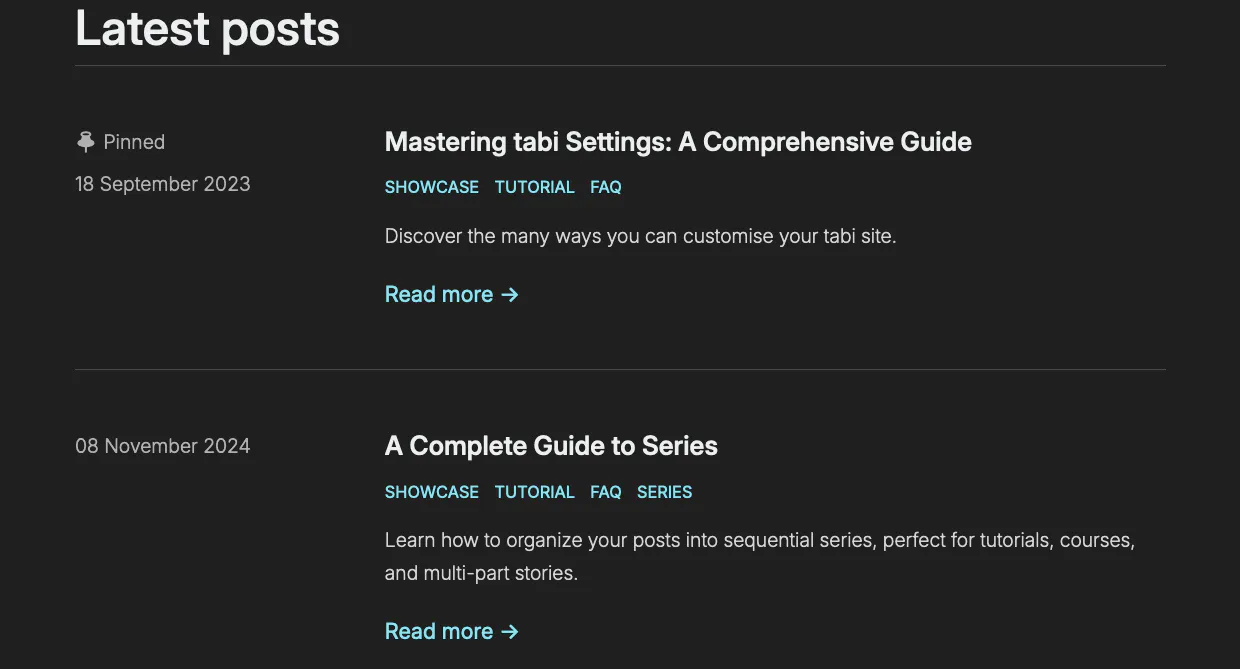
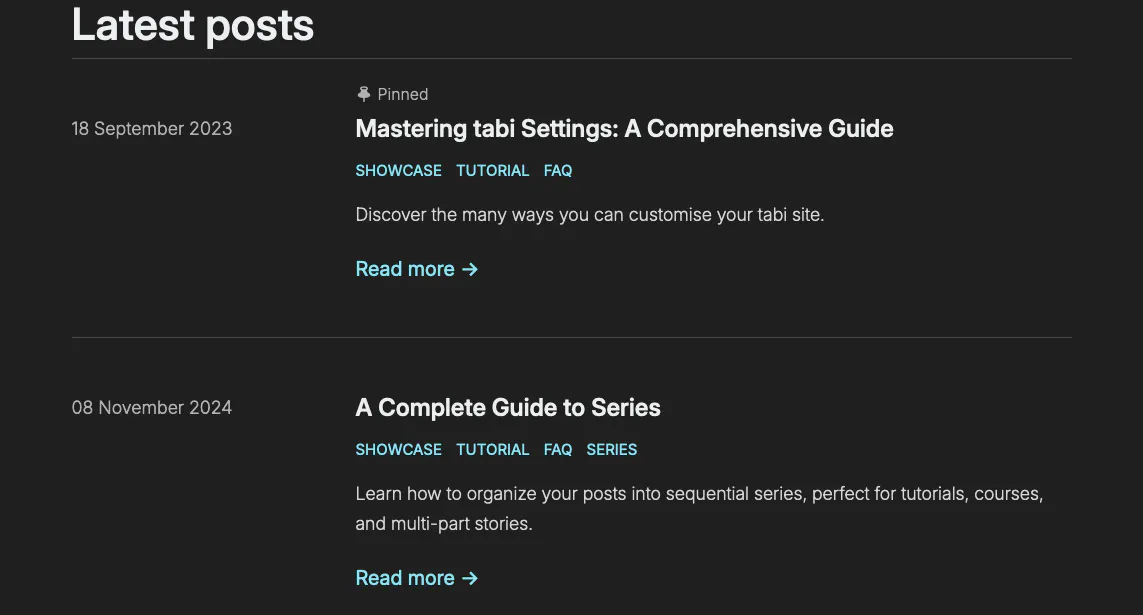
redesign pin and enable pinning only in section.html

diff --git a/templates/macros/list_posts.html b/templates/macros/list_posts.html
@@ -3,24 +3,29 @@
 {# It would also work with arrays (e.g. ["dates"] or ["indexes"] or even ["indexes","dates"]). #}
 {# Nevertheless, arrays cannot be used as a default value for a macro parameter in Tera (see https://github.com/Keats/tera/issues/710). #}
 {# `paginator` is only used to compute indexes metadata and can be let empty otherwise. #}
-{% macro list_posts(posts, max, metadata="dates", language_strings="", section_path="blog", paginator="") %}
+{% macro list_posts(posts, max, metadata="dates", language_strings="", section_path="blog", paginator="", pinned_first=false) %}
 
 {%- set separator = config.extra.separator | default(value="•") -%}
 
 {# Separate pinned and regular posts #}
-{% set pinned_posts = [] %}
-{% set regular_posts = [] %}
-{% for post in posts %}
-    {% if post.extra.pinned %}
-        {% set_global pinned_posts = pinned_posts | concat(with=post) %}
-    {% else %}
-        {% set_global regular_posts = regular_posts | concat(with=post) %}
-    {% endif %}
-{% endfor %}
+{% set all_posts = [] %}
+{% if pinned_first %}
+    {% set pinned_posts = [] %}
+    {% set regular_posts = [] %}
+    {% for post in posts %}
+        {% if post.extra.pinned %}
+            {% set_global pinned_posts = pinned_posts | concat(with=post) %}
+        {% else %}
+            {% set_global regular_posts = regular_posts | concat(with=post) %}
+        {% endif %}
+    {% endfor %}
+    {% set all_posts = pinned_posts | concat(with=regular_posts) %}
+{% else %}
+    {% set all_posts = posts %}
+{% endif %}
 
 <div class="bloglist-container">
     {# Display all posts (pinned first, then regular) #}
-    {% set all_posts = pinned_posts | concat(with=regular_posts) %}
     {% for post in all_posts %}
         {% if loop.index <= max %}
             {% if loop.index == max or loop.last %}
@@ -59,16 +64,6 @@
                         {%- set show_date = post.date and post_listing_date == "date" or post.date and post_listing_date == "both" or post.date and post_listing_date == "updated" and not post.updated -%}
                         {%- set show_updated = post.updated and post_listing_date == "updated" or post.updated and post_listing_date == "both" -%}
 
-                        {% if post.extra.pinned %}
-                            <li class="pinned-label">
-                                <svg aria-hidden="true" xmlns="http://www.w3.org/2000/svg" viewBox="0 0 16 16"><path fill="currentColor" fill-rule="evenodd" d="M10.5 2.255v-.01c.003-.03.013-.157-.361-.35C9.703 1.668 8.967 1.5 8 1.5s-1.703.169-2.138.394c-.375.194-.365.32-.362.351v.01c-.003.03-.013.157.362.35C6.297 2.832 7.033 3 8 3s1.703-.169 2.139-.394c.374-.194.364-.32.361-.351M12 2.25c0 .738-.433 1.294-1.136 1.669l.825 2.31c1.553.48 2.561 1.32 2.561 2.52c0 1.854-2.402 2.848-5.5 2.985V15a.75.75 0 0 1-1.5 0v-3.266c-3.098-.136-5.5-1.131-5.5-2.984c0-1.2 1.008-2.04 2.561-2.52l.825-2.311C4.433 3.544 4 2.988 4 2.25C4 .75 5.79 0 8 0s4 .75 4 2.25" clip-rule="evenodd"/></svg>
-                                <span>{{ macros_translate::translate(key="pinned", default="Pinned", language_strings=language_strings) }}</span>
-                            </li>
-                            {%- if show_date -%}
-                                <li class="mobile-only">{{- separator -}}</li>
-                            {%- endif -%}
-                        {% endif %}
-
                         {%- if show_date or show_updated -%}
                             {%- if show_date -%}
                                 <li class="date">{{- macros_format_date::format_date(date=post.date, short=false, language_strings=language_strings) -}}</li>
@@ -93,6 +88,13 @@
 
             <section class="bloglist-content {% if bottom_divider -%}bottom-divider{%- endif -%}">
                 <div>
+                    {% if pinned_first and post.extra.pinned %}
+                    <div class="pinned-label">
+                        <svg aria-hidden="true" xmlns="http://www.w3.org/2000/svg" viewBox="0 0 16 16"><path fill="currentColor" fill-rule="evenodd" d="M10.5 2.255v-.01c.003-.03.013-.157-.361-.35C9.703 1.668 8.967 1.5 8 1.5s-1.703.169-2.138.394c-.375.194-.365.32-.362.351v.01c-.003.03-.013.157.362.35C6.297 2.832 7.033 3 8 3s1.703-.169 2.139-.394c.374-.194.364-.32.361-.351M12 2.25c0 .738-.433 1.294-1.136 1.669l.825 2.31c1.553.48 2.561 1.32 2.561 2.52c0 1.854-2.402 2.848-5.5 2.985V15a.75.75 0 0 1-1.5 0v-3.266c-3.098-.136-5.5-1.131-5.5-2.984c0-1.2 1.008-2.04 2.561-2.52l.825-2.311C4.433 3.544 4 2.988 4 2.25C4 .75 5.79 0 8 0s4 .75 4 2.25" clip-rule="evenodd"/></svg>
+                        <span>{{ macros_translate::translate(key="pinned", default="Pinned", language_strings=language_strings) }}</span>
+                    </div>
+                    {% endif %}
+
                     <h2 class="bloglist-title">
                         <a href="{{ post.permalink }}">{{ post.title }}</a>
                     </h2>

diff --git a/sass/parts/_posts_list.scss b/sass/parts/_posts_list.scss
@@ -3,22 +3,14 @@
     grid-template-columns: 1fr 8fr;
 }
 
-.pinned-label {
-    display: flex;
-    align-items: center;
-    gap: 0.3rem;
-}
 
-.pinned-label svg {
-    width: 1rem;
-    height: 1rem;
-}
+$padding: 2.5rem;
 
 .bloglist-meta {
     display: flex;
     align-items: flex-start;
     background-color: var(--navbar-color);
-    padding-block: 2.5rem;
+    padding-block: $padding;
 
     ul {
         margin-inline-end: 0.7rem;
@@ -45,9 +37,26 @@
 
 .bloglist-content {
     display: flex;
+    position: relative;
     align-items: flex-start;
     background-color: var(--navbar-color);
-    padding: 2.5rem 0;
+    padding: $padding 0;
+
+    .pinned-label {
+        display: flex;
+        position: absolute;
+        top: 0.8rem;
+        align-items: center;
+        gap: 0.3rem;
+        color: var(--meta-color);
+        font-weight: 300;
+        font-size: 0.8rem;
+    }
+
+    .pinned-label svg {
+        width: 0.8rem;
+        height: 0.8rem;
+    }
 
     div {
         flex: 1;
@@ -135,6 +144,13 @@
         align-items: flex-start;
         padding: 0;
         padding-bottom: 2rem;
+
+
+        .pinned-label {
+            position: static;
+            margin: 0;
+            margin-top: -1.9rem;
+        }
 
         div {
             width: 100%;

diff --git a/templates/partials/main_page_posts_list.html b/templates/partials/main_page_posts_list.html
@@ -37,7 +37,7 @@
         {% endif -%}
 
         {% set max_posts = section.extra.max_posts | default(value=999999) %}
-        {{ macros_list_posts::list_posts(posts=pages, max=max_posts, language_strings=language_strings, section_path=path) }}
+        {{ macros_list_posts::list_posts(posts=pages, max=max_posts, language_strings=language_strings, section_path=path, pinned_first=true) }}
     </div>
 
     {% if paginator and paginator.pages | length > 0 %}

diff --git a/content/blog/mastering-tabi-settings/index.ca.md b/content/blog/mastering-tabi-settings/index.ca.md
@@ -1,7 +1,7 @@
 +++
 title = "Domina la configuració de tabi: guia completa"
 date = 2023-09-18
-updated = 2024-11-08
+updated = 2024-11-13
 description = "Descobreix les múltiples maneres en què pots personalitzar tabi."
 
 [taxonomies]
@@ -122,7 +122,6 @@ Configura `paginate_by` al front matter del teu arxiu `content/_index.md`:
 ```toml
 title = "Últimes publicacions"
 sort_by = "date"
-template = "section.html"
 paginate_by = 5  # Mostra 5 publicacions per pàgina.
 
 [extra]
@@ -138,7 +137,6 @@ Utilitza `section_path` a la secció `[extra]` del teu arxiu `content/_index.md`
 ```toml
 title = "Últimes publicacions"
 sort_by = "date"
-template = "section.html"
 # No configuris `paginate_by` aquí.
 
 [extra]
@@ -169,7 +167,8 @@ Per fixar una entrada, afegeix el següent al seu front matter:
 pinned = true
 ```
 
-{{ admonition(type="note", text='Aquesta configuració només afecta la pàgina principal (`template = "section.html"`). En altres seccions (p.ex. `blog/`, `archive/`), aquest configuració no té cap efecte.') }}
+
+{{ admonition(type="note", text="Aquesta configuració només afecta les pàgines que utilitzen la plantilla predeterminada `section.html`. En aquesta demo, això inclou la pàgina principal i `blog/`. Altres seccions —pàgines d'etiquetes, `archive/` o sèries— ignoren aquesta configuració.") }}
 
 ##### Mostrar la data dels articles al llistat
 

diff --git a/content/blog/mastering-tabi-settings/index.es.md b/content/blog/mastering-tabi-settings/index.es.md
@@ -1,7 +1,7 @@
 +++
 title = "Domina la configuración de tabi: guía completa"
 date = 2023-09-18
-updated = 2024-11-08
+updated = 2024-11-13
 description = "Descubre las múltiples maneras en que puedes personalizar tabi."
 
 [taxonomies]
@@ -122,7 +122,6 @@ Configura `paginate_by` en el front matter de tu archivo `content/_index.md`:
 ```toml
 title = "Últimas publicaciones"
 sort_by = "date"
-template = "section.html"
 paginate_by = 5  # Muestra 5 publicaciones por página.
 
 [extra]
@@ -138,7 +137,6 @@ Utiliza `section_path` en la sección `[extra]` de tu archivo `content/_index.md
 ```toml
 title = "Últimas publicaciones"
 sort_by = "date"
-template = "section.html"
 # No configures `paginate_by` aquí.
 
 [extra]
@@ -169,7 +167,7 @@ Para fijar una publicación, añade lo siguiente a su front matter:
 pinned = true
 ```
 
-{{ admonition(type="note", text='Este ajuste solo afecta a la página principal (`template = "section.html"`). En otras secciones (p.ej. `blog/`, `archive/`), este ajuste no tiene ningún efecto.') }}
+{{ admonition(type="note", text='Este ajuste solo afecta a las páginas que usan la plantilla predeterminada `section.html`. En esta demo, esto incluye la página principal y `blog/`. Otras secciones —páginas de etiquetas, `archive/` o series— ignoran este ajuste.') }}
 
 ##### Mostrar la fecha de los artículos en el listado
 

diff --git a/content/blog/mastering-tabi-settings/index.md b/content/blog/mastering-tabi-settings/index.md
@@ -1,7 +1,7 @@
 +++
 title = "Mastering tabi Settings: A Comprehensive Guide"
 date = 2023-09-18
-updated = 2024-11-08
+updated = 2024-11-13
 description = "Discover the many ways you can customise your tabi site."
 
 [taxonomies]
@@ -122,7 +122,6 @@ Set `paginate_by` in the front matter of your `content/_index.md` file:
 ```toml
 title = "Latest posts"
 sort_by = "date"
-template = "section.html"
 paginate_by = 5  # Show 5 posts per page.
 
 [extra]
@@ -138,7 +137,6 @@ Use `section_path` in the `[extra]` section of your `content/_index.md` file:
 ```toml
 title = "Latest posts"
 sort_by = "date"
-template = "section.html"
 # Do not set `paginate_by` here.
 
 [extra]
@@ -169,7 +167,7 @@ To pin a post, add the following to its front matter:
 pinned = true
 ```
 
-{{ admonition(type="note", text='This setting only affects the main page (`template = "section.html"`). On other sections (e.g. `blog/`, `archive/`), this setting makes no difference.') }}
+{{ admonition(type="note", text='This setting only affects pages using the default `section.html` template. In this demo, this includes the main page and `blog/`. Other sections —tags, archives, or series pages— ignore this setting.') }}
 
 ##### Display the Date of Posts in Listing
 

diff --git a/README.md b/README.md
@@ -120,7 +120,6 @@ highlight_theme = "css"
    +++
    title = "Home"
    paginate_by = 5  # Show 5 posts per page.
-   template = "section.html"
    +++
    ```
 
@@ -132,7 +131,6 @@ highlight_theme = "css"
    +++
    title = "Home"
    # Note we're not setting `paginate_by` here.
-   template = "section.html"
 
    [extra]
    section_path = "blog/_index.md"  # Where to find your posts.

diff --git a/content/_index.es.md b/content/_index.es.md
@@ -1,7 +1,6 @@
 +++
 title = "Publicaciones recientes"
 sort_by = "date"
-template = "section.html"
 
 [extra]
 header = {title = "¡Hola! Soy tabi~", img = "img/main.webp", img_alt = "Óscar Fernández, el autor de tabi" }

diff --git a/content/_index.ca.md b/content/_index.ca.md
@@ -1,7 +1,6 @@
 +++
 title = "Publicacions recents"
 sort_by = "date"
-template = "section.html"
 
 [extra]
 header = {title = "Hola! Soc tabi~", img = "img/main.webp", img_alt = "Óscar Fernández, l'autor de tabi" }

diff --git a/content/_index.md b/content/_index.md
@@ -1,7 +1,6 @@
 +++
 title = "Latest posts"
 sort_by = "date"
-template = "section.html"
 
 [extra]
 header = {title = "Hello! I'm tabi~", img = "img/main.webp", img_alt = "Óscar Fernández, the theme's author" }

diff --git a/content/blog/_index.ca.md b/content/blog/_index.ca.md
@@ -2,7 +2,6 @@
 paginate_by = 5
 title = "Blog"
 sort_by = "date"
-template = "section.html"
 insert_anchor_links = "left"
 
 [extra]

diff --git a/content/blog/_index.es.md b/content/blog/_index.es.md
@@ -2,7 +2,6 @@
 paginate_by = 5
 title = "Blog"
 sort_by = "date"
-template = "section.html"
 insert_anchor_links = "left"
 
 [extra]
